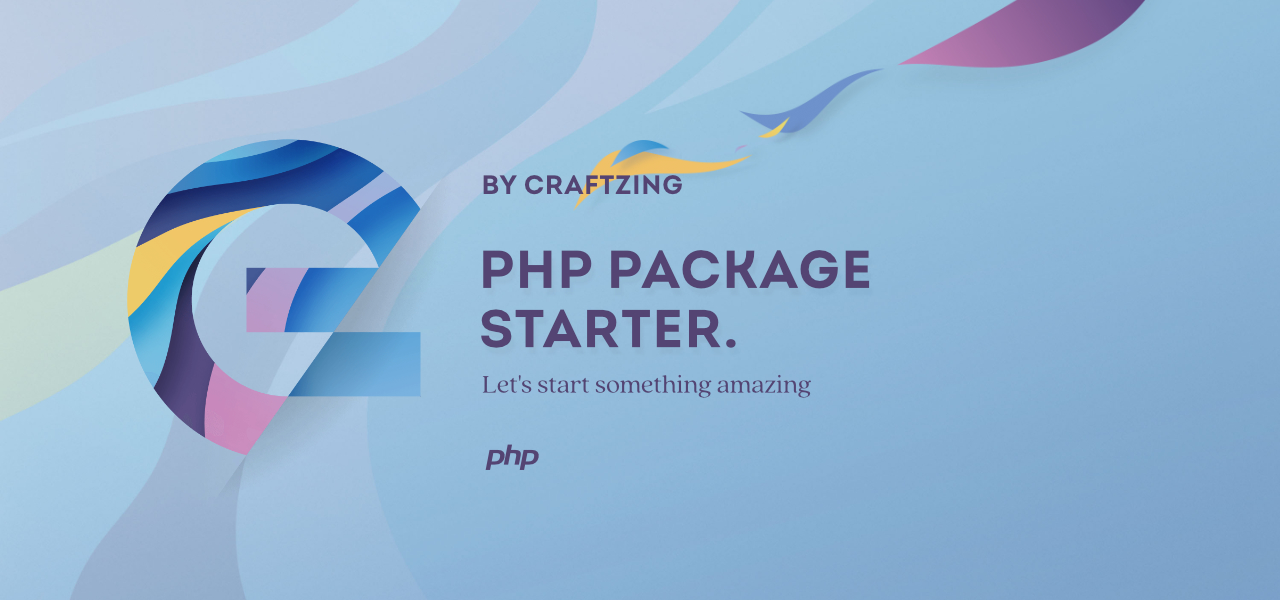
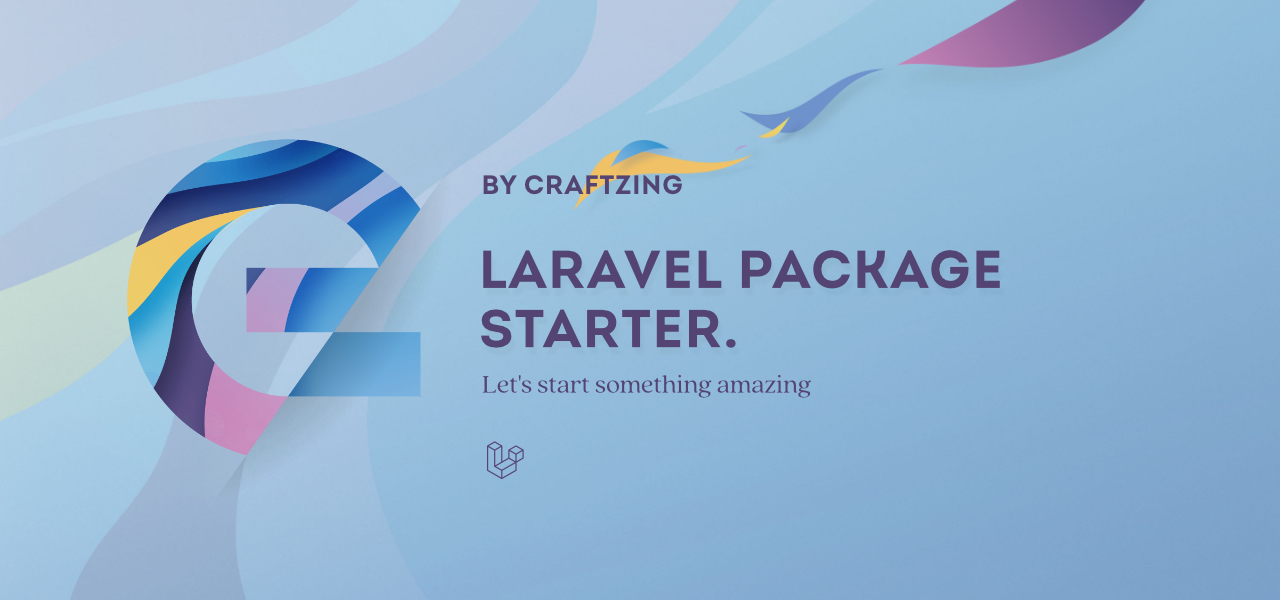
Add Laravel-specific project setup

Changed region(s): [[0.375, 0.42, 0.7812, 0.48], [0.375, 0.72, 0.4375, 0.81]]

diff --git a/config/:package_name.php b/config/:package_name.php
@@ -1,0 +1,5 @@
+<?php
+
+return [
+
+];

diff --git a/README.md b/README.md
@@ -6,14 +6,17 @@
 [![Maintainability](https://api.codeclimate.com/v1/badges/881eb71372c1b12c18d5/maintainability)](https://codeclimate.com/github/craftzing/:package_name/maintainability)
 [![Software License](https://img.shields.io/badge/license-MIT-brightgreen.svg?style=flat&color=4D6CB8)](https://github.com/craftzing/:package_name/blob/master/LICENSE)
 
-This package serves as a starting point to create a new PHP package. Everything's in place to get you started quickly:
+This package serves as a starting point to create a new Laravel package. Everything's in place to get you started 
+quickly:
 - Documentation outline
 - Basic workflows
 - Basic config files
+- Laravel-specific code starters
 - ...
 
 Perform a "search and replace" action for the following placeholders and update them with an according value:
-- `:package_name`
+- `:package_name`: Please make sure to use lowercase and dashes as a separator (e.g. `my-package`)
+- `:package_namespace`: Not that the default namespace is already set to be `Craftzing\Laravel` (e.g. `MyPackage`)
 - `:package_description`
 - `:author_name`
 - `:author_email`
